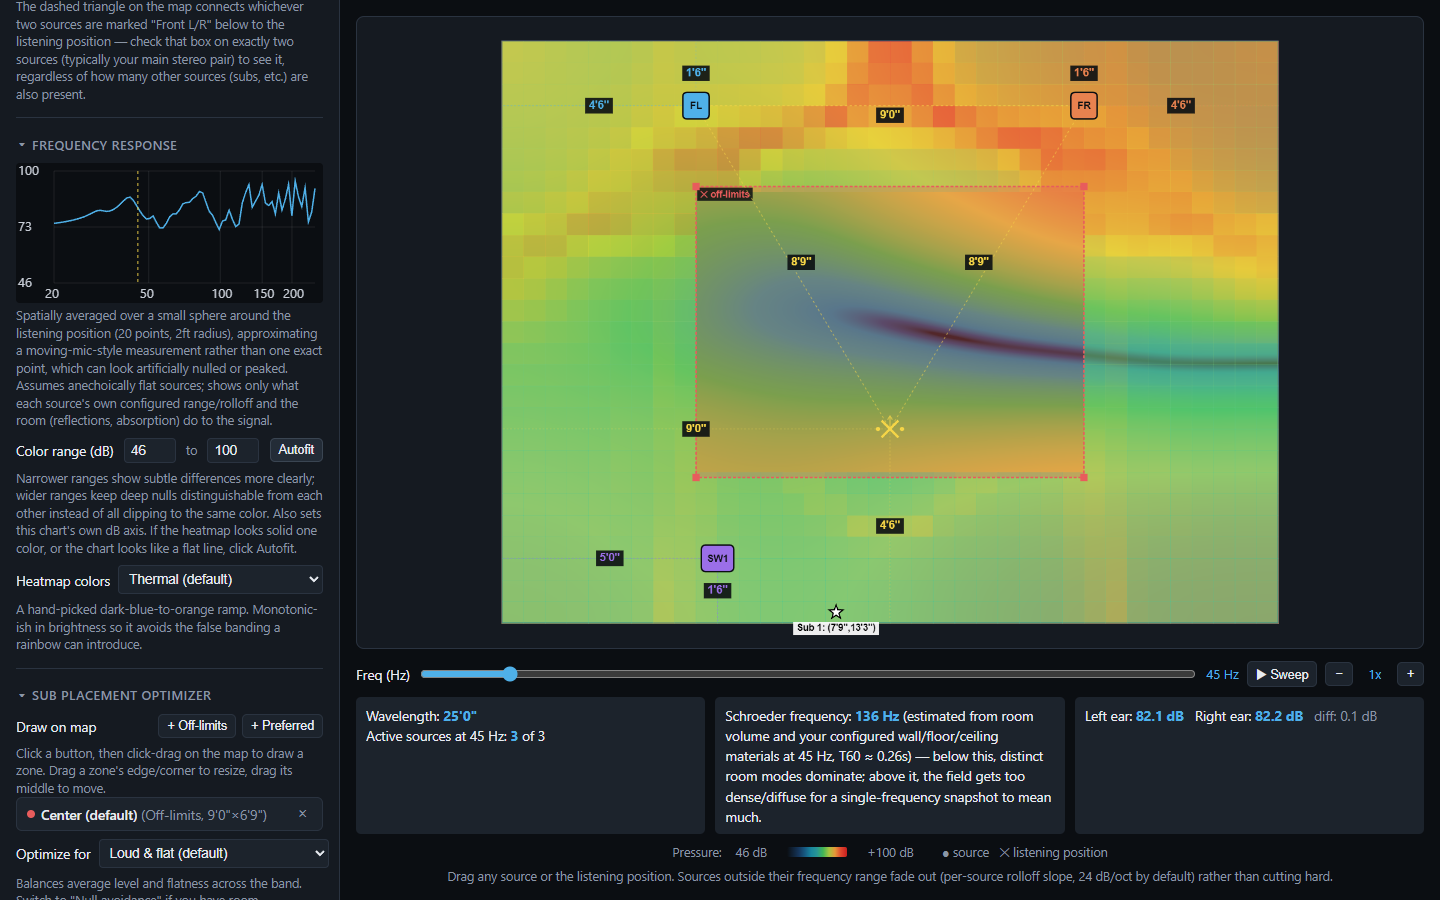
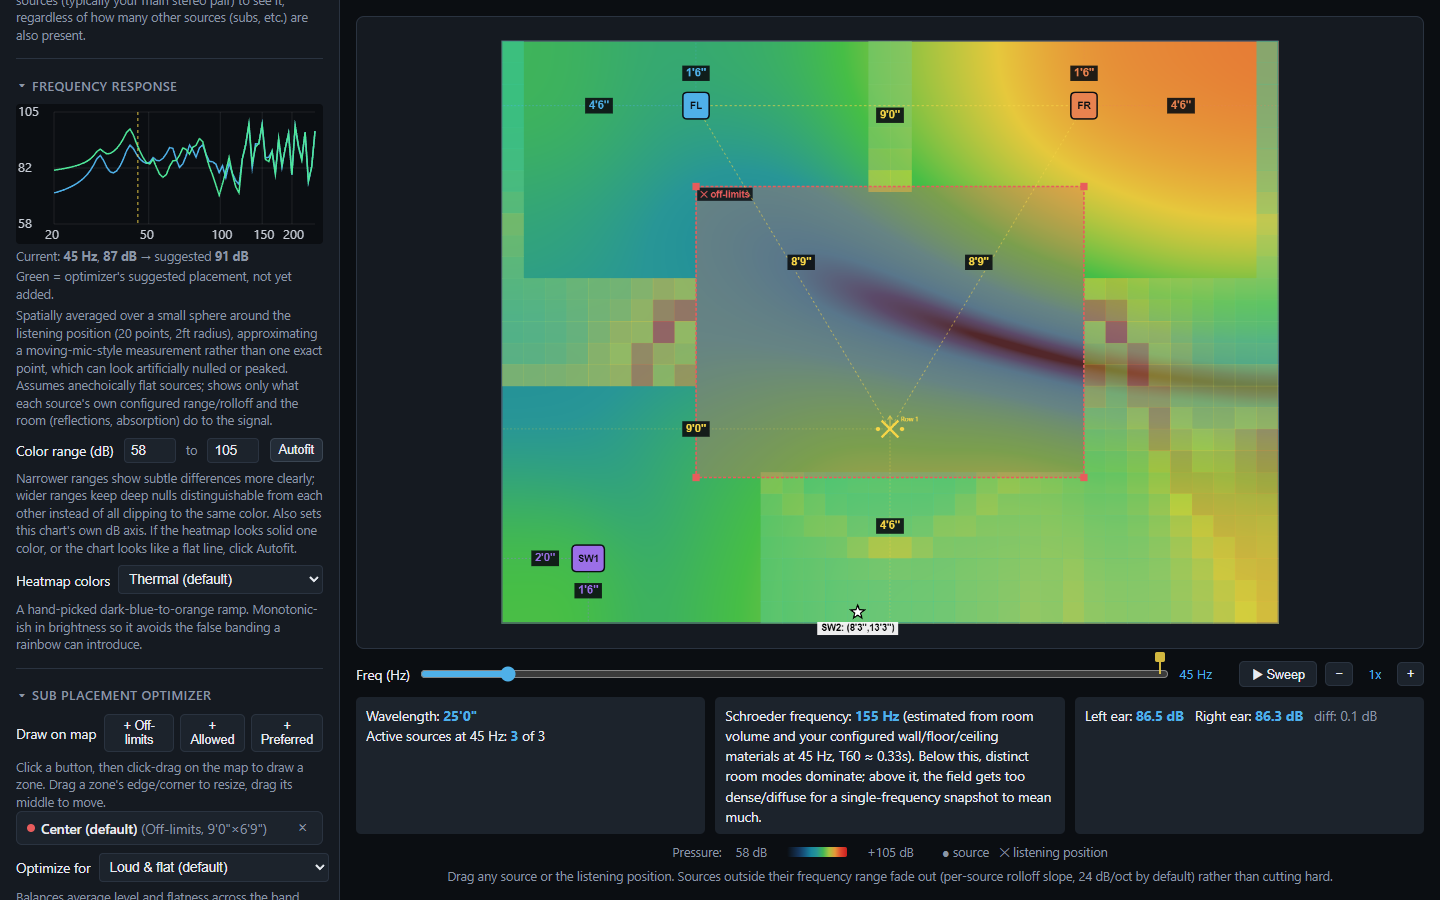
Regenerate optimizer screenshot and demo animation, fix stale spawn assumption (#17)
docs/optimizer.png and docs/optimizer-demo.webp were last regenerated before this session's run of PRs (multi-listener rows, Main/Sub buttons, the allowed/preferred zone rename, and the before/after frequency response chart), so they no longer matched the app.

tools/capture-docs-media.js's GIF B setup also had a stale assumption: addSubBtn's spawn x-offset formula only counts existing sub-like sources (freqHigh <= 150), not the 2 mains already present, but the script's grab-from coordinates assumed the mains counted too. That mismatch meant the script's initial 'move the 2 subs into symmetric positions' drag silently grabbed nothing (no error, just a no-op), leaving both subs at their real un-repositioned spawn spots. The final animated drag then also grabbed from the wrong assumed position, which crossed into the (separately enlarged) off-limits zone and dragged that instead of a sub -- exactly the bug reported. Fixed the two grab-from coordinates to match the current spawn formula; verified by extracting and inspecting several frames from the regenerated animation, confirming the SW1/SW2 markers themselves move to their final wall positions while the off-limits zone stays fixed throughout.

Left docs/overview.png, docs/materials.png, and docs/sweep-demo.webp at their current committed versions, since they don't reference the sub optimizer and weren't in scope for this pass.

diff --git a/tools/capture-docs-media.js b/tools/capture-docs-media.js
@@ -207,9 +207,16 @@ async function expandSection(page, sectionId){
   }
 
   // Default spawn formula: x = min(room.w-1, 2 + n*1.5), y = room.d - 1.5, where
-  // n = sources.length AT THE TIME of the click (2 mains already present).
-  await dragSourceFromTo({ x: 5,   y: 12 }, { x: 4.5,  y: 12 }); // sub 1 -> symmetric left
-  await dragSourceFromTo({ x: 6.5, y: 12 }, { x: 13.5, y: 12 }); // sub 2 -> symmetric right (mirror of sub1 about x=9)
+  // n = the count of existing SUB-like sources only (freqHigh <= 150) -- the
+  // 2 mains already present don't count toward n, even though they're
+  // present in `sources`. Grabbing from the wrong assumed spawn point here
+  // silently misses the actual sub marker (no error, just a no-op drag),
+  // leaving both subs at their real, un-repositioned spawn spots for the
+  // rest of the script -- which is what caused GIF B to end up dragging the
+  // off-limits zone instead of a sub, once its bounds later crossed the
+  // path this drag "should" have already cleared.
+  await dragSourceFromTo({ x: 2,   y: 12 }, { x: 4.5,  y: 12 }); // sub 1 -> symmetric left
+  await dragSourceFromTo({ x: 3.5, y: 12 }, { x: 13.5, y: 12 }); // sub 2 -> symmetric right (mirror of sub1 about x=9)
   await page.waitForTimeout(400);
 
   // Enlarge the default off-limits zone (50% of room, centered -- see
